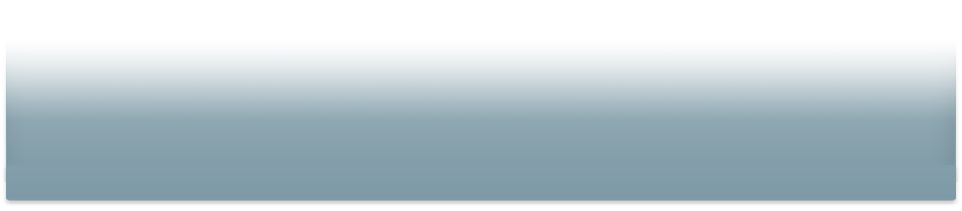
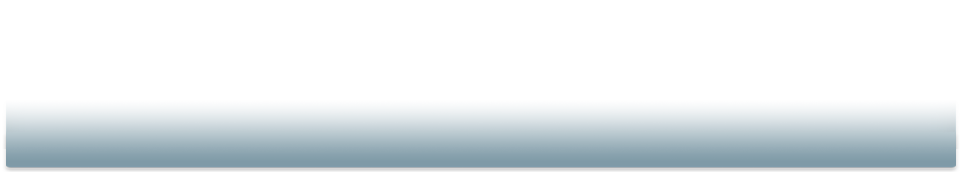
added in browser testing fixes for ie7, fixed bottom image, worked on small issues

diff --git a/public/stylesheets/screen.css b/public/stylesheets/screen.css
@@ -318,12 +318,11 @@ ul.nav li a {
 }
 
 #project_slider_bottom {
-  background:url(../images/project-bg-bottom.png) 0 80px  no-repeat;
-  height:181px;
+  background:url(../images/project-bg-bottom.png) 0 10px no-repeat;
+  height:182px;
   width:962px;
   margin: 0 auto;
 }
-
 #project_slider_bottom .feature-wrap {
   width:950px;
   margin: 0 0 0 14px;
@@ -335,13 +334,17 @@ ul.nav li a {
   border-right:1px solid #a0b2b9;
   margin: 0 5px 0 0;
 }
-
+* + html #project_slider_bottom .feature {
+  padding: 10px 0 0 0;
+}
+* + html #project_slider_bottom .feature-last {
+  padding: 10px 0 0 0;
+}
 #project_slider_bottom .feature_title {
   background:url(../images/feature_title.png) no-repeat;
   height:77px;
   width:224px;
 }
-
 
 #project_slider_bottom .feature_title img {
   float:right;
@@ -495,6 +498,7 @@ ul.nav li a {
 }
 #project-slider .feature {
   width:230px;
+  height:148px;
   float:left;
   border-right:1px solid #a0b2b9;
   padding: 10px 0 15px 0;
@@ -671,7 +675,7 @@ hr {
 }
 #content .work_services_wrap h4.typeface-js {
   font-size:2.8em;
-  margin: 15px 0 3px 0;
+  margin: 12px 0 7px 0;
   padding:0;
   height:32px;
 }
@@ -689,14 +693,48 @@ hr {
   font-size:1.2em;
 }
 
+#content .work_services_text {
+  float:left;
+  height:120px;
+  width:280px;
+}
+#content .work_services_text a {
+  width:270px;
+  color:#000;
+  font-size:1.2em;
+  padding: 4px 0 0 0;
+  text-decoration:none; 
+  margin: 4px 0 0 0;
+  line-height:1.5em;
+}
+#content .work_services_text h4 a {
+  color:#003366;
+  padding: 0;
+  margin:0 ;
+  font-size:1em;
+}
+#content .work_services_text h4 a:hover {
+  text-decoration:none;
+}
+#content .work_services_text a:hover {
+  text-decoration:underline;
+  cursor:pointer;
+}
+* + html #content .work_services_text p {
+  font-size:1.1em;
+
+}
+
 .services_link {
-  display:block;
   position:absolute;
   text-indent:-9999em;
+  display:block; 
   height:125px;
   width:390px;
 }
-
+* + html .services_link {
+  display:none;
+}
 .work_services_wrap p {
   width:355px;
   margin:0;
@@ -729,8 +767,12 @@ hr {
 }
 .work_content_right li {
   padding: 0 0 7px 0;
-  list-style:disc;
   font-size:1.3em;
+  list-style:disc;
+}
+* + html .work_content_right li {
+  list-style:disc inside none;
+  margin: 0 0 0 -13px;
 }
 .work_content_right h4 {
   float:left;

diff --git a/public/javascripts/unitpngfix.js b/public/javascripts/unitpngfix.js
@@ -1,0 +1,3 @@
+var clear="../images/clear.gif"; //path to clear.gif
+
+document.write('<script type="text/javascript" id="ct" defer="defer" src="javascript:void(0)"><\/script>');var ct=document.getElementById("ct");ct.onreadystatechange=function(){pngfix()};pngfix=function(){var els=document.getElementsByTagName('*'),ip=/\.png/i,al="progid:DXImageTransform.Microsoft.AlphaImageLoader(src='",i=els.length,uels=new Array(),c=0;while(i-->0){if(els[i].className.match(/unitPng/)){uels[c]=els[i];c++;}}if(uels.length==0)pfx(els);else pfx(uels);function pfx(els){i=els.length;while(i-->0){var el=els[i],es=el.style,elc=el.currentStyle,elb=elc.backgroundImage;if(el.src&&el.src.match(ip)&&!es.filter){es.height=el.height;es.width=el.width;es.filter=al+el.src+"',sizingMethod='crop')";el.src=clear;}else{if(elb.match(ip)){var path=elb.split('"'),rep=(elc.backgroundRepeat=='no-repeat')?'crop':'scale',elkids=el.getElementsByTagName('*'),j=elkids.length;es.filter=al+path[1]+"',sizingMethod='"+rep+"')";es.height=el.clientHeight+'px';es.backgroundImage='none';if(j!=0){if(elc.position!="absolute")es.position='static';while(j-->0)if(!elkids[j].style.position)elkids[j].style.position="relative";}}}}};};
